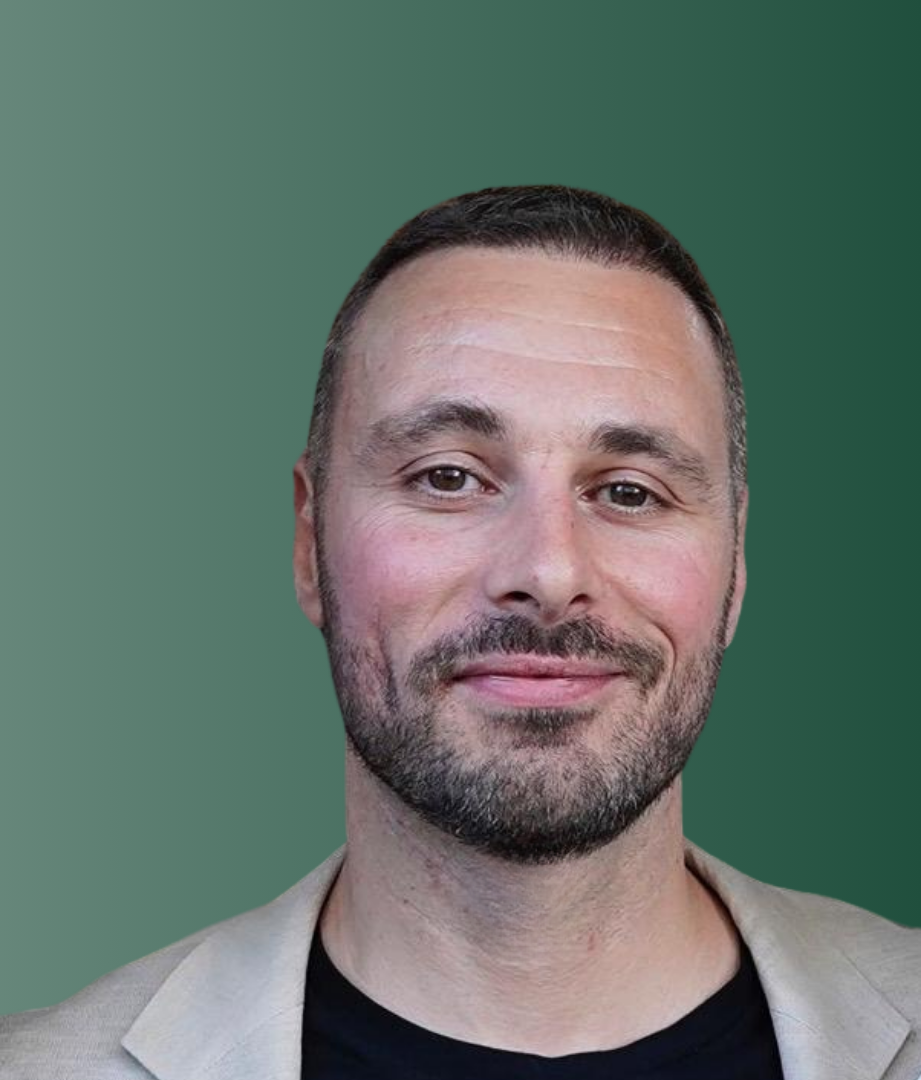
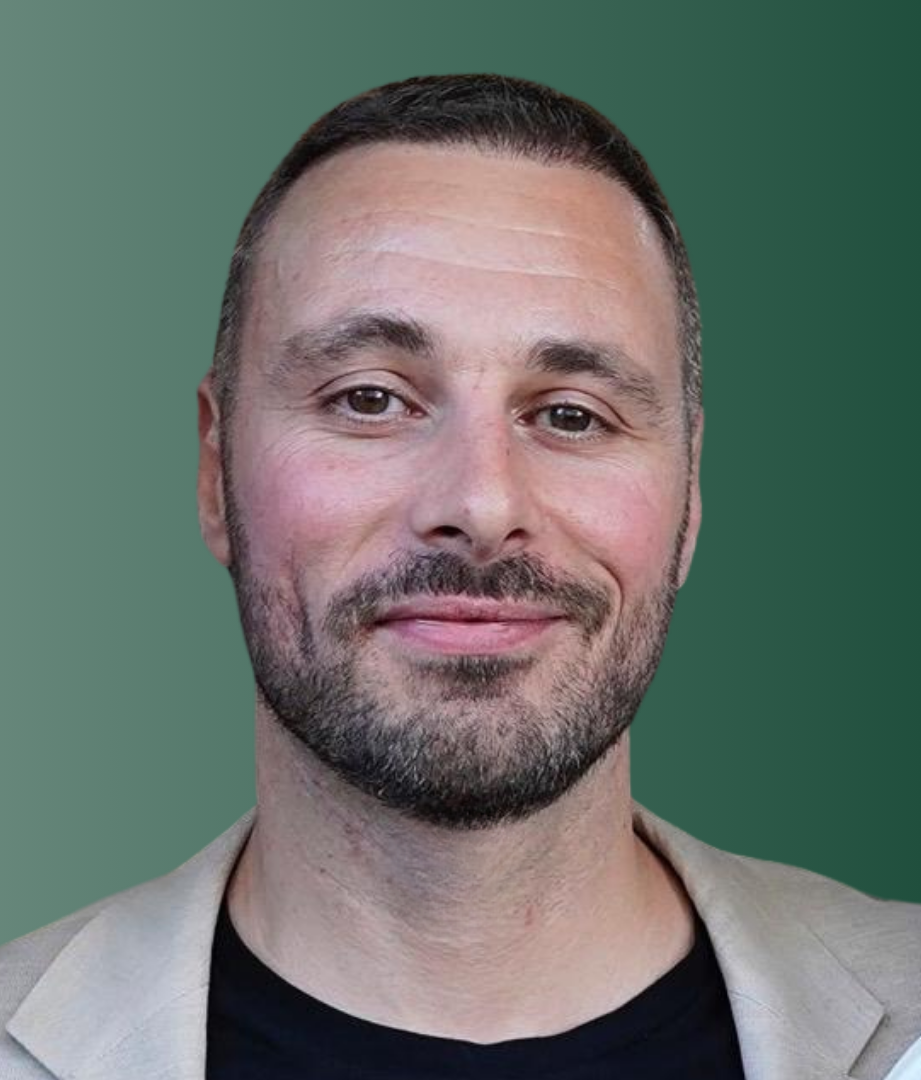
feat: Actualizar foto de perfil con mejor encuadre
📸 Cambios realizados:
- Nueva foto de José Moscardó más centrada
- Cache busting (?v=centrado) para forzar actualización
- Mejor presentación visual del perfil

🔧 Solución problema de caché del navegador

diff --git a/public/sobre-nosotros/index.html b/public/sobre-nosotros/index.html
@@ -562,7 +562,7 @@
                     </div>
                 </div>
                 <div class="about-photo">
-                    <img src="../assets/images/fotosobrenosotrosOC.png" alt="José Moscardó, fundador de Oficios Circulares" class="profile-photo">
+                    <img src="../assets/images/fotosobrenosotrosOC.png?v=centrado" alt="José Moscardó, fundador de Oficios Circulares" class="profile-photo">
                 </div>
             </div>
         </section>
